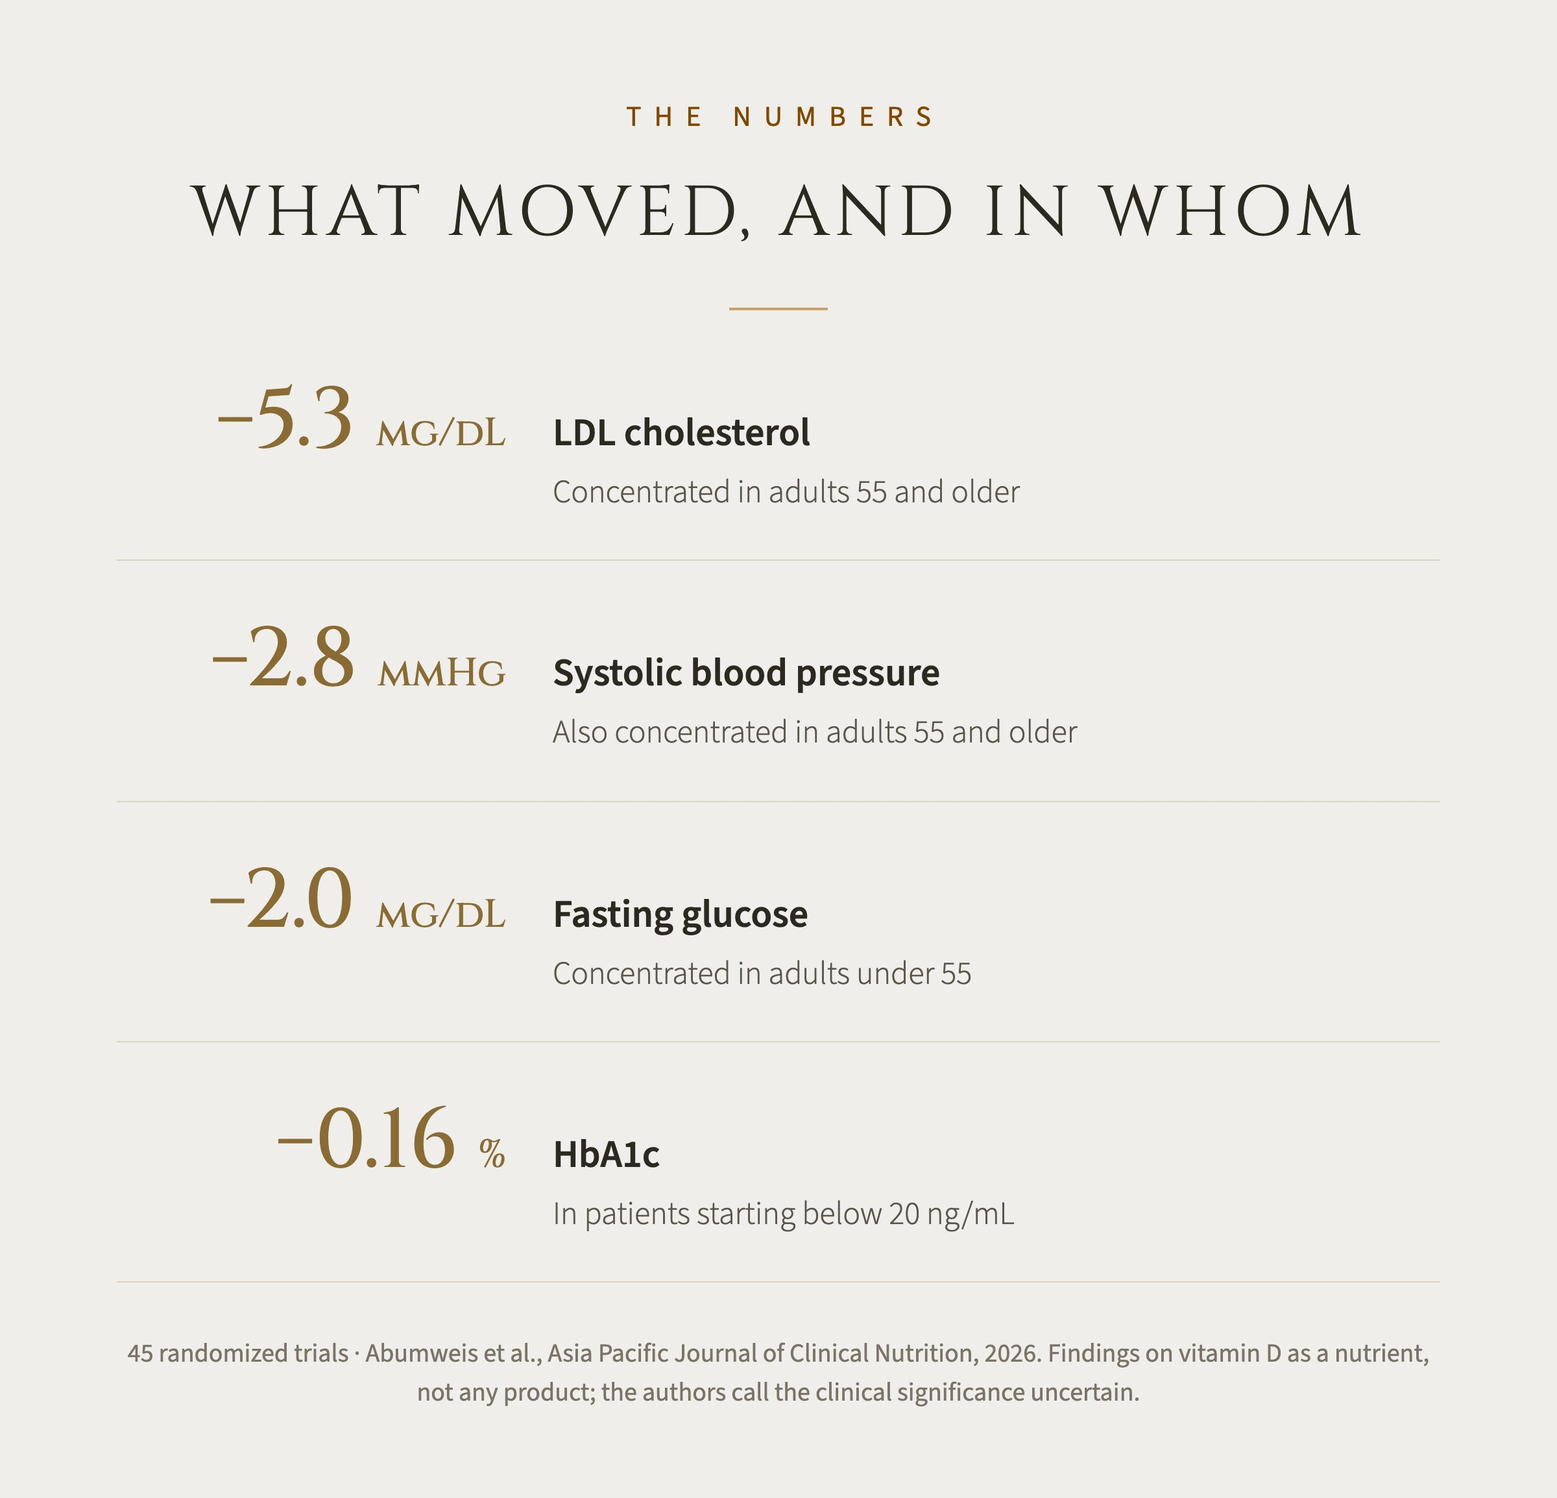
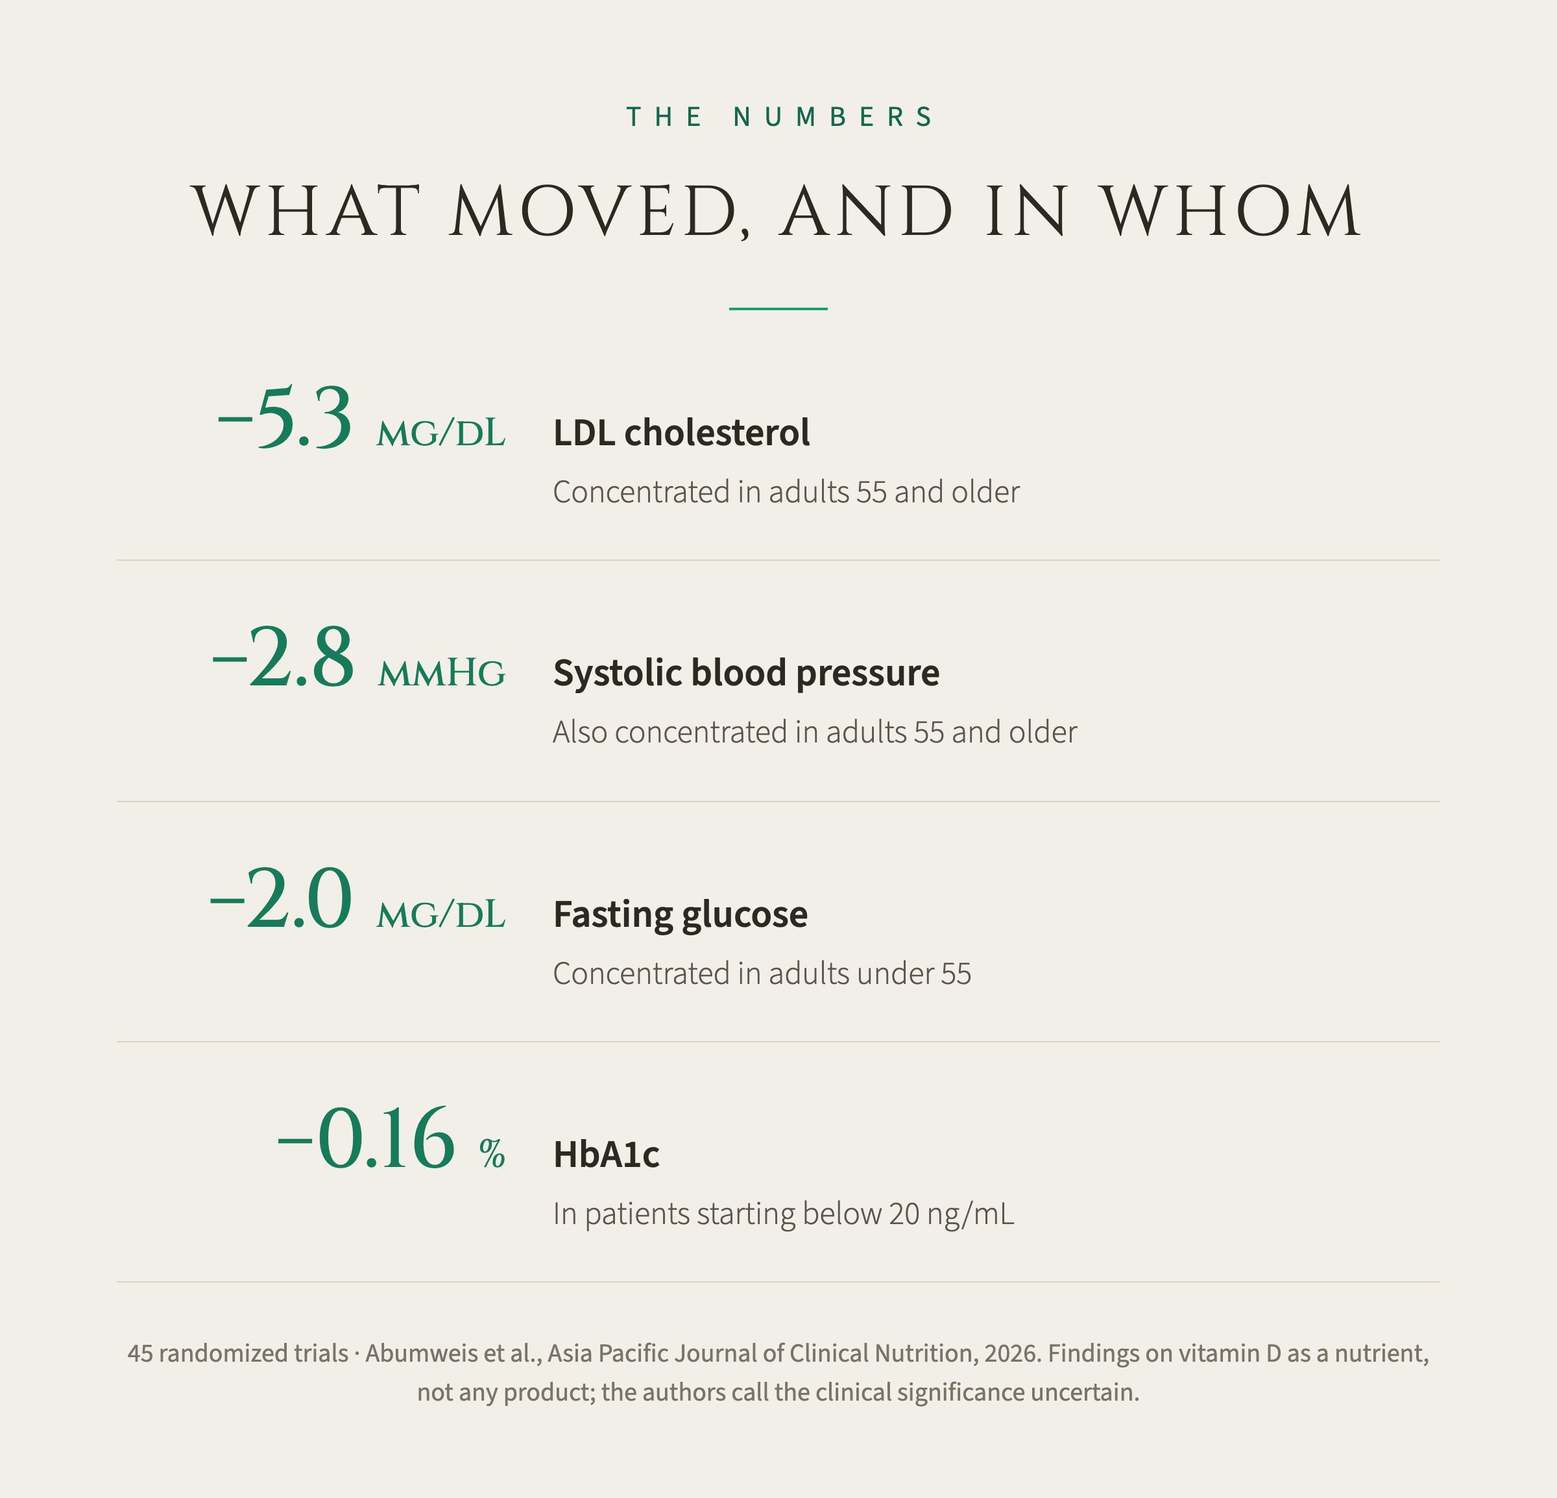
feat: cinema style in Asher's own green, his call tonight
Same cinematic structure, accent swapped from antique gold to his signature
green: green-cast near-black, ivory carved title, green light drift, green
hairlines, kickers, numbers, and buttons. Green is now the standing default;
gold and bottle-matched accents stay as occasional deliberate variants.

diff --git a/blasts/2026-08-05-vitamin-d-cinema-mockup.html b/blasts/2026-08-05-vitamin-d-cinema-mockup.html
@@ -27,9 +27,9 @@
     .btn-cell { display:block !important; margin:0 auto 12px !important; }
   }
   /* Gmail dark mode: re-assert the bands and kickers it likes to repaint */
-  [data-ogsc] .kick-paper { color:#a05a00 !important; }
-  [data-ogsb] .band-dark { background-color:#14110E !important; }
-  [data-ogsb] .band-paper { background-color:#F0EEEA !important; }
+  [data-ogsc] .kick-paper { color:#0f7a56 !important; }
+  [data-ogsb] .band-dark { background-color:#0F1613 !important; }
+  [data-ogsb] .band-paper { background-color:#F1EFE8 !important; }
 </style>
 <!--[if mso]><style>
   body, table, td, p, a, div { font-family: Helvetica, Arial, sans-serif !important; }
@@ -45,32 +45,32 @@
     <img src="https://apdad.github.io/mission/blasts/assets/hero-vitamin-d.gif"
          alt="THE SUNSHINE VITAMIN, RECONSIDERED. What 40 years of cardiometabolic data actually show."
          width="640"
-         style="width:100%; max-width:640px; height:auto; display:block; color:#DCC38F; font-family:Georgia,'Times New Roman',serif; font-size:22px; line-height:1.5; text-align:center;"/>
+         style="width:100%; max-width:640px; height:auto; display:block; color:#A9D8C2; font-family:Georgia,'Times New Roman',serif; font-size:22px; line-height:1.5; text-align:center;"/>
   </td></tr>
 
   <!-- ============ DARK TRIO BAND: three findings ============ -->
-  <tr><td bgcolor="#14110E" class="pad band-dark" style="background-color:#14110E; padding:44px 40px;">
+  <tr><td bgcolor="#0F1613" class="pad band-dark" style="background-color:#0F1613; padding:44px 40px;">
     <table role="presentation" width="100%" cellpadding="0" cellspacing="0"><tr>
       <td class="trio-cell" width="33%" align="center" valign="top" style="padding:0 8px;">
-        <div class="serif" style="font-family:'Cinzel',Georgia,serif; font-weight:500; font-size:34px; color:#DCC38F; text-align:center;">45</div>
+        <div class="serif" style="font-family:'Cinzel',Georgia,serif; font-weight:500; font-size:34px; color:#A9D8C2; text-align:center;">45</div>
         <div style="font-family:'Source Sans 3','Noto Sans',Helvetica,Arial,sans-serif; font-size:12px; letter-spacing:3px; text-transform:uppercase; color:#B8B2A8; text-align:center; padding-top:8px; line-height:1.6;">Randomized<br>trials</div>
       </td>
       <td class="trio-cell" width="33%" align="center" valign="top" style="padding:0 8px;">
-        <div class="serif" style="font-family:'Cinzel',Georgia,serif; font-weight:500; font-size:34px; color:#DCC38F; text-align:center;">&lt;20</div>
+        <div class="serif" style="font-family:'Cinzel',Georgia,serif; font-weight:500; font-size:34px; color:#A9D8C2; text-align:center;">&lt;20</div>
         <div style="font-family:'Source Sans 3','Noto Sans',Helvetica,Arial,sans-serif; font-size:12px; letter-spacing:3px; text-transform:uppercase; color:#B8B2A8; text-align:center; padding-top:8px; line-height:1.6;">ng/mL, where<br>benefit lived</div>
       </td>
       <td class="trio-cell" width="33%" align="center" valign="top" style="padding:0 8px;">
-        <div class="serif" style="font-family:'Cinzel',Georgia,serif; font-weight:500; font-size:34px; color:#DCC38F; text-align:center;">&minus;5.3</div>
+        <div class="serif" style="font-family:'Cinzel',Georgia,serif; font-weight:500; font-size:34px; color:#A9D8C2; text-align:center;">&minus;5.3</div>
         <div style="font-family:'Source Sans 3','Noto Sans',Helvetica,Arial,sans-serif; font-size:12px; letter-spacing:3px; text-transform:uppercase; color:#B8B2A8; text-align:center; padding-top:8px; line-height:1.6;">mg/dL LDL, the<br>largest lipid move</div>
       </td>
     </tr></table>
   </td></tr>
 
   <!-- ============ THE LETTER (warm paper) ============ -->
-  <tr><td bgcolor="#F0EEEA" class="pad band-paper" style="background-color:#F0EEEA; padding:52px 48px;">
-    <div class="kick-paper" style="font-family:'Source Sans 3','Noto Sans',Helvetica,Arial,sans-serif; font-size:12px; letter-spacing:5px; text-transform:uppercase; color:#814800; text-align:center;">What They Found</div>
+  <tr><td bgcolor="#F1EFE8" class="pad band-paper" style="background-color:#F1EFE8; padding:52px 48px;">
+    <div class="kick-paper" style="font-family:'Source Sans 3','Noto Sans',Helvetica,Arial,sans-serif; font-size:12px; letter-spacing:5px; text-transform:uppercase; color:#14664D; text-align:center;">What They Found</div>
     <h2 class="h-display" style="font-family:'Cinzel',Georgia,serif; font-weight:400; font-size:30px; line-height:1.25; letter-spacing:2px; text-transform:uppercase; color:#2C2921; text-align:center; margin:14px 0 0;">Everyone Moved a Little.<br>The Deficient Ones Moved.</h2>
-    <table role="presentation" align="center" cellpadding="0" cellspacing="0" style="margin:26px auto;"><tr><td width="56" height="1" bgcolor="#C8A063" style="font-size:1px; line-height:1px;">&#8202;</td></tr></table>
+    <table role="presentation" align="center" cellpadding="0" cellspacing="0" style="margin:26px auto;"><tr><td width="56" height="1" bgcolor="#1D9E75" style="font-size:1px; line-height:1px;">&#8202;</td></tr></table>
     <div style="font-family:'Source Sans 3','Noto Sans',Helvetica,Arial,sans-serif; font-size:16px; font-weight:400; line-height:1.7; color:#3A362E; text-align:left;">
       <p style="margin:0 0 18px;">Hope you are well. Quick one worth two minutes.</p>
       <p style="margin:0 0 18px;">A new meta-analysis pooled <strong>45 randomized trials</strong> on vitamin D and
@@ -82,14 +82,14 @@
       had a decent level barely moved, and the authors say plainly that the clinical
       significance is still uncertain.</p>
     </div>
-    <table role="presentation" align="center" cellpadding="0" cellspacing="0" style="margin:34px auto;"><tr><td width="56" height="1" bgcolor="#C8A063" style="font-size:1px; line-height:1px;">&#8202;</td></tr></table>
+    <table role="presentation" align="center" cellpadding="0" cellspacing="0" style="margin:34px auto;"><tr><td width="56" height="1" bgcolor="#1D9E75" style="font-size:1px; line-height:1px;">&#8202;</td></tr></table>
     <div class="serif" style="font-family:'Cinzel',Georgia,serif; font-weight:400; font-size:21px; line-height:1.5; letter-spacing:1px; color:#2C2921; text-align:center;">Repletion and supplementation<br>are not the same conversation.</div>
-    <table role="presentation" align="center" cellpadding="0" cellspacing="0" style="margin:34px auto;"><tr><td width="56" height="1" bgcolor="#C8A063" style="font-size:1px; line-height:1px;">&#8202;</td></tr></table>
+    <table role="presentation" align="center" cellpadding="0" cellspacing="0" style="margin:34px auto;"><tr><td width="56" height="1" bgcolor="#1D9E75" style="font-size:1px; line-height:1px;">&#8202;</td></tr></table>
     <div style="font-family:'Source Sans 3','Noto Sans',Helvetica,Arial,sans-serif; font-size:16px; font-weight:400; line-height:1.7; color:#3A362E; text-align:left;">
       <p style="margin:0 0 18px;">So if you are pulling a level before you recommend, this is the paper that backs how
       you already practice. And if you are not, it is a reasonable argument for starting.</p>
       <p style="margin:0 0 18px;">Read the full study here:
-      <a href="https://pmc.ncbi.nlm.nih.gov/articles/PMC13413152/" style="color:#814800;">the vitamin D meta-analysis
+      <a href="https://pmc.ncbi.nlm.nih.gov/articles/PMC13413152/" style="color:#14664D;">the vitamin D meta-analysis
       in the Asia Pacific Journal of Clinical Nutrition</a>. Open access, no paywall.</p>
       <p style="margin:0;"><strong>The patient handout is attached to this email.</strong> Print it and hand it
       off; it does the explaining for you.</p>
@@ -97,7 +97,7 @@
   </td></tr>
 
   <!-- ============ THE NUMBERS: email-in-a-picture ============ -->
-  <tr><td bgcolor="#F0EEEA" class="band-paper" style="background-color:#F0EEEA; padding:0 48px 20px; font-size:0; line-height:0;">
+  <tr><td bgcolor="#F1EFE8" class="band-paper" style="background-color:#F1EFE8; padding:0 48px 20px; font-size:0; line-height:0;">
     <img src="https://apdad.github.io/mission/blasts/assets/numbers-vitamin-d.jpg"
          alt="What moved, and in whom: LDL down 5.3 mg/dL and systolic pressure down 2.8 mmHg, both concentrated in adults 55 and older. Fasting glucose down 2.0 mg/dL in adults under 55. HbA1c down 0.16 percent in patients starting below 20 ng/mL. 45 randomized trials, Abumweis et al. 2026."
          width="544"
@@ -109,14 +109,14 @@
        exists, the machine builds the thumbnail with the play badge baked into
        the pixels, wraps it in an <a> to the dl=0 Dropbox link (st= stripped,
        curl-verified 200), captions it with the speaker's real title and honest
-       duration, and places the band here on #14110E. When no video matches,
+       duration, and places the band here on #0F1613. When no video matches,
        this band DOES NOT EXIST. Never a visible placeholder. -->
 
   <!-- ============ PRODUCT (stone band) ============ -->
   <tr><td bgcolor="#D5D0C6" align="center" class="pad" style="background-color:#D5D0C6; padding:52px 48px;">
-    <div style="font-family:'Source Sans 3','Noto Sans',Helvetica,Arial,sans-serif; font-size:12px; letter-spacing:5px; text-transform:uppercase; color:#814800; text-align:center;">Practitioner Exclusive</div>
+    <div style="font-family:'Source Sans 3','Noto Sans',Helvetica,Arial,sans-serif; font-size:12px; letter-spacing:5px; text-transform:uppercase; color:#14664D; text-align:center;">Practitioner Exclusive</div>
     <h2 class="h-display" style="font-family:'Cinzel',Georgia,serif; font-weight:400; font-size:26px; line-height:1.25; letter-spacing:2px; text-transform:uppercase; color:#2C2921; text-align:center; margin:14px 0 0;">D3 10,000 with K2</h2>
-    <table role="presentation" align="center" cellpadding="0" cellspacing="0" style="margin:26px auto;"><tr><td width="56" height="1" bgcolor="#C8A063" style="font-size:1px; line-height:1px;">&#8202;</td></tr></table>
+    <table role="presentation" align="center" cellpadding="0" cellspacing="0" style="margin:26px auto;"><tr><td width="56" height="1" bgcolor="#1D9E75" style="font-size:1px; line-height:1px;">&#8202;</td></tr></table>
     <img src="https://apdad.github.io/mission/blasts/assets/d3-10000-k2.png"
          alt="NutriDyn D3 10,000 with K2 bottle" width="180"
          style="display:block; width:180px; height:auto; margin:0 auto; color:#2C2921; font-family:Helvetica,Arial,sans-serif; font-size:14px;"/>
@@ -125,23 +125,23 @@
       normal calcium utilization and bone metabolism. It is what most of our practices reach
       for when they are correcting a level rather than maintaining one.</div>
     <table role="presentation" align="center" cellpadding="0" cellspacing="0" style="margin-top:30px;"><tr>
-      <td class="btn-cell" bgcolor="#C8A063" style="background-color:#C8A063; padding:16px 34px;">
+      <td class="btn-cell" bgcolor="#1D9E75" style="background-color:#1D9E75; padding:16px 34px;">
         <a href="https://nutridyn.com/d3-10-000-with-k2"
-           style="display:block; color:#14110E; font-family:'Source Sans 3',Helvetica,Arial,sans-serif; font-size:14px; font-weight:600; letter-spacing:2.5px; text-transform:uppercase; text-decoration:none;">Place Your Order</a>
+           style="display:block; color:#0F1613; font-family:'Source Sans 3',Helvetica,Arial,sans-serif; font-size:14px; font-weight:600; letter-spacing:2.5px; text-transform:uppercase; text-decoration:none;">Place Your Order</a>
       </td>
       <td width="12" style="font-size:0; line-height:0;">&nbsp;</td>
-      <td class="btn-cell" style="border:1px solid #C8A063; padding:15px 33px;">
+      <td class="btn-cell" style="border:1px solid #1D9E75; padding:15px 33px;">
         <a href="mailto:asher@nutri-dyn.com?subject=Send%20me%20the%20D3%20sample&body=Asher%2C%0A%0ASend%20a%20D3%2010%2C000%20with%20K2%20sample%20to%20the%20office.%20Ship%20to%3A%0A%0A%0AAlso%2C%20the%20thing%20I%20wish%20NutriDyn%20made%20is%3A%0A%0A"
-           style="display:block; color:#7A5A22; font-family:'Source Sans 3',Helvetica,Arial,sans-serif; font-size:14px; font-weight:400; letter-spacing:2.5px; text-transform:uppercase; text-decoration:none;">Email Asher</a>
+           style="display:block; color:#14664D; font-family:'Source Sans 3',Helvetica,Arial,sans-serif; font-size:14px; font-weight:400; letter-spacing:2.5px; text-transform:uppercase; text-decoration:none;">Email Asher</a>
       </td>
     </tr></table>
   </td></tr>
 
   <!-- ============ FEEDBACK (THE FEEDBACK LAW) ============ -->
-  <tr><td bgcolor="#F0EEEA" align="center" class="pad band-paper" style="background-color:#F0EEEA; padding:52px 48px 40px;">
-    <div class="kick-paper" style="font-family:'Source Sans 3','Noto Sans',Helvetica,Arial,sans-serif; font-size:12px; letter-spacing:5px; text-transform:uppercase; color:#814800; text-align:center;">Building This With You</div>
+  <tr><td bgcolor="#F1EFE8" align="center" class="pad band-paper" style="background-color:#F1EFE8; padding:52px 48px 40px;">
+    <div class="kick-paper" style="font-family:'Source Sans 3','Noto Sans',Helvetica,Arial,sans-serif; font-size:12px; letter-spacing:5px; text-transform:uppercase; color:#14664D; text-align:center;">Building This With You</div>
     <h2 class="h-display" style="font-family:'Cinzel',Georgia,serif; font-weight:400; font-size:22px; line-height:1.25; letter-spacing:2px; text-transform:uppercase; color:#2C2921; text-align:center; margin:14px 0 0;">What Should We Fix Next?</h2>
-    <table role="presentation" align="center" cellpadding="0" cellspacing="0" style="margin:26px auto;"><tr><td width="56" height="1" bgcolor="#C8A063" style="font-size:1px; line-height:1px;">&#8202;</td></tr></table>
+    <table role="presentation" align="center" cellpadding="0" cellspacing="0" style="margin:26px auto;"><tr><td width="56" height="1" bgcolor="#1D9E75" style="font-size:1px; line-height:1px;">&#8202;</td></tr></table>
     <div style="font-family:'Source Sans 3','Noto Sans',Helvetica,Arial,sans-serif; font-size:16px; font-weight:400; line-height:1.7; color:#3A362E; max-width:460px; margin:0 auto; text-align:left;">
       We run this territory like a product, and you are the one using it. Tell us what is not
       working in your practice, what you wish NutriDyn made, or what you want covered at the
@@ -150,7 +150,7 @@
   </td></tr>
 
   <!-- ============ SIGNATURE (canonical block, THE SIGNATURE LAW) ============ -->
-  <tr><td bgcolor="#F0EEEA" class="band-paper" style="background-color:#F0EEEA; padding:0 30px 44px;">
+  <tr><td bgcolor="#F1EFE8" class="band-paper" style="background-color:#F1EFE8; padding:0 30px 44px;">
     <table role="presentation" align="center" cellpadding="0" cellspacing="0"><tr><td><table cellpadding="0" cellspacing="0" border="0" style="max-width:580px;background-color:#ffffff;border-radius:2px;"><tr><td width="6" bgcolor="#1a4a3a" style="width:6px;background-color:#1a4a3a;background-image:linear-gradient(180deg,#1a4a3a 0%,#2d7a5e 100%);font-size:0;line-height:0;">&nbsp;</td><td width="110" style="width:110px;padding:20px 0 20px 20px;vertical-align:top;"><img src="https://apdad.github.io/mission/sig/asher-allen.jpg" width="90" height="90" style="border-radius:50%;display:block;border:3px solid #2d7a5e;width:90px;height:90px;" alt="Asher Allen" /></td><td style="padding:20px 20px 20px 16px;vertical-align:top;"><div style="font-family:Georgia,'Playfair Display',serif;font-size:18px;font-weight:600;color:#1a1a1a;letter-spacing:0.3px;line-height:1.2;"> Asher Allen </div><div style="font-family:'Helvetica Neue',Helvetica,Arial,sans-serif;font-size:11px;font-weight:500;color:#2d7a5e;letter-spacing:1.8px;text-transform:uppercase;margin-top:3px;"> M.S. Human Nutrition </div><div style="font-family:'Helvetica Neue',Helvetica,Arial,sans-serif;font-size:12px;font-weight:600;color:#1a1a1a;letter-spacing:0.3px;margin-top:2px;"> NutriDyn </div><table cellpadding="0" cellspacing="0" border="0" width="40" style="margin:10px 0;"><tr><td height="2" bgcolor="#2d7a5e" style="height:2px;line-height:2px;font-size:0;background-color:#2d7a5e;background-image:linear-gradient(90deg,#2d7a5e,#a8d5c2);border-radius:2px;">&nbsp;</td></tr></table><table cellpadding="0" cellspacing="0" border="0"><tr><td style="padding:2px 0;font-family:'Helvetica Neue',Helvetica,Arial,sans-serif;"><span style="font-size:11px;color:#555555;">&#128241;</span><a href="tel:6785771003" style="font-size:12px;color:#333333;text-decoration:none;margin-left:6px;">678.577.1003</a></td></tr><tr><td style="padding:2px 0;font-family:'Helvetica Neue',Helvetica,Arial,sans-serif;"><span style="font-size:11px;color:#555555;">&#9993;</span><a href="mailto:asher@nutri-dyn.com" style="font-size:12px;color:#2d7a5e;text-decoration:none;margin-left:6px;">asher@nutri-dyn.com</a></td></tr><tr><td style="padding:2px 0;font-family:'Helvetica Neue',Helvetica,Arial,sans-serif;"><span style="font-size:11px;color:#555555;">&#127760;</span><a href="https://nutridyn.com" style="font-size:12px;color:#2d7a5e;text-decoration:none;margin-left:6px;">nutridyn.com</a></td></tr></table><table cellpadding="0" cellspacing="0" border="0" role="presentation" style="margin-top:12px;"> <tr> <td bgcolor="#0077b5" style="background-color:#0077b5;border-radius:3px;"> <a href="https://www.linkedin.com/in/asherallen" style="display:inline-block;padding:5px 10px;font-family:'Helvetica Neue',Helvetica,Arial,sans-serif;font-size:10px;font-weight:600;color:#ffffff;text-decoration:none;letter-spacing:0.5px;">LinkedIn</a> </td> <td width="6" style="width:6px;font-size:0;line-height:0;">&nbsp;</td> <td bgcolor="#c13584" style="background-color:#c13584;background-image:linear-gradient(45deg,#f09433,#e6683c,#dc2743,#cc2366,#bc1888);border-radius:3px;"> <a href="https://instagram.com/asherallen21" style="display:inline-block;padding:5px 10px;font-family:'Helvetica Neue',Helvetica,Arial,sans-serif;font-size:10px;font-weight:600;color:#ffffff;text-decoration:none;letter-spacing:0.5px;">Instagram</a> </td> <td width="6" style="width:6px;font-size:0;line-height:0;">&nbsp;</td> <td bgcolor="#000000" style="background-color:#000000;border-radius:3px;"> <a href="https://twitter.com/asherallen" style="display:inline-block;padding:5px 10px;font-family:'Helvetica Neue',Helvetica,Arial,sans-serif;font-size:10px;font-weight:600;color:#ffffff;text-decoration:none;letter-spacing:0.5px;">X</a> </td> <td width="6" style="width:6px;font-size:0;line-height:0;">&nbsp;</td> <td bgcolor="#1877f2" style="background-color:#1877f2;border-radius:3px;"> <a href="https://www.facebook.com/share/g/1CEhYGLGp2/?mibextid=wwXIfr" style="display:inline-block;padding:5px 10px;font-family:'Helvetica Neue',Helvetica,Arial,sans-serif;font-size:10px;font-weight:600;color:#ffffff;text-decoration:none;letter-spacing:0.5px;">Clinician Group</a> </td> </tr> </table></td></tr><tr><td colspan="3" bgcolor="#1a4a3a" style="background-color:#1a4a3a;background-image:linear-gradient(90deg,#1a4a3a,#2d7a5e);padding:8px 20px;"><p style="margin:0;font-family:'Helvetica Neue',Helvetica,Arial,sans-serif;font-size:10px;color:#d6e5df;letter-spacing:0.5px;"> &#128197; &nbsp;<strong style="color:#ffffff;">Book a Lunch &amp; Learn or Zoom:</strong> &nbsp;Reply to this email or text 678.577.1003 </p><p style="margin:5px 0 0;font-family:'Helvetica Neue',Helvetica,Arial,sans-serif;font-size:10px;color:#d6e5df;letter-spacing:0.5px;"> &#128172; &nbsp;<strong style="color:#ffffff;">What should we build next?</strong> &nbsp;Reply with what your territory needs, what NutriDyn should make, or a seminar topic. I read every one. </p></td></tr></table></td></tr></table></td></tr></table>
   </td></tr>
 
